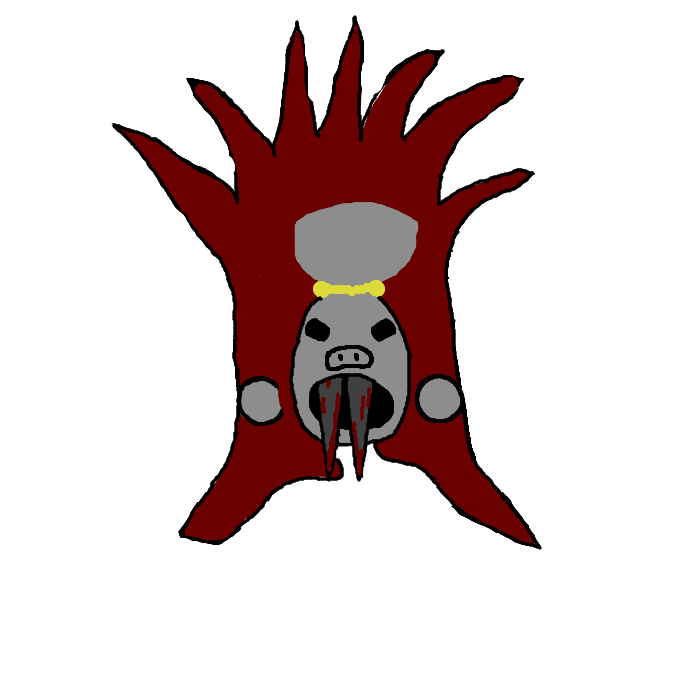
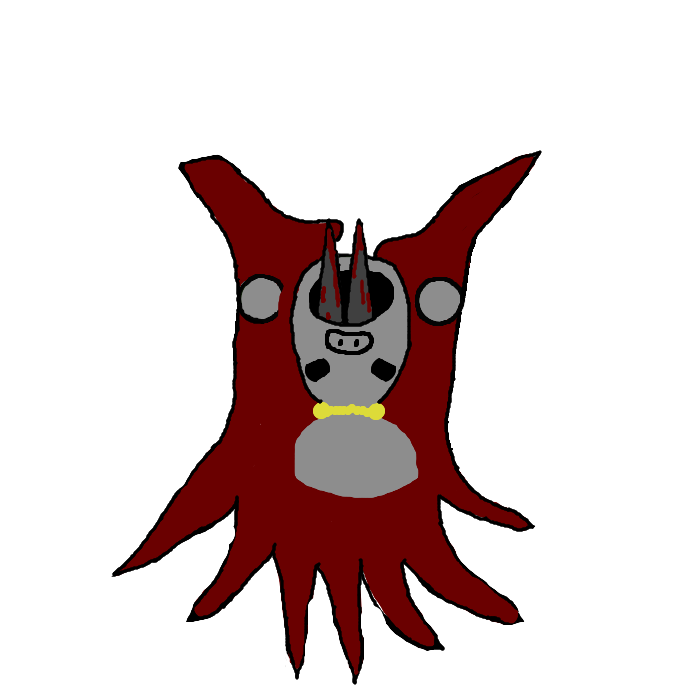
gargamel_hungry beginning

Changed region(s): [[0.15, 0.03, 0.78, 0.99]]

diff --git a/lib/monsters/gargamel_hungry.py b/lib/monsters/gargamel_hungry.py
@@ -8,23 +8,22 @@ from . import Target
 
 #2 phase, and sheep procession
 class GargamelHungry(AbstractGargamel):
-    lives = 880
+    lives = 70
 
     def __init__(self, env, x, y):
-        self.set_weapons()
+        self.set_dependencies()
         self._random_spawn()
         self.target = self.env.players[0]
 
         self.weapon_left = self.scimitar(110)
-        self.weapon_right = self.scimitar(110)
+        self.weapon_right = self.nothing(self.weapon_left)
 
-
-        self.weapons_left_list = []
-        self.weapons_right_list = []
+        self.left_weapons_types = [self.scimitar]
+        self.right_weapons_types = [self.spear]
 
         self.hitbox = set_hitbox_monster(env, self, 0.25)
 
-        procession = self.procession(self.x, self.y, self)
+        procession = self.procession(self.x, self.y, self, 405, 877)
         t = Thread(target=procession.spawn, args=())
         t.daemon = True
         self.env.bullets.append(procession)
@@ -35,20 +34,25 @@ class GargamelHungry(AbstractGargamel):
 
         self.env.background = self.env.background_butchery
 
+        self.delay = 14
+
     def display(self, env):
         fitting = 0.23 * self.dimensions if self.direction % 2 else 0
         direction = self.direction
         if not self.lives:
-            img = self.img_hungry[direction]
-        #elif self.scimitar_spelling:
-        #    img = self.img_scimitar_spelling[self.direction]
+            if self.env.walking_dead:
+                img = self.img_possessed[direction]
+            else:
+                img = self.img_dead[direction]
         elif self.injured:
-            img = self.img_injured[direction]
+            img = self.img_hungry_injured[direction]
         else:
-            img = self.img[direction]
+            img = self.img_hungry[direction]
         self.tools.display(env, img, self.x, self.y, fitting)
-        if self.lives and self.weapon.in_hand:
-            self.tools.display(self.env, self.weapon.img[direction], self.x, self.y, fitting)
+        if self.lives and self.weapon_left.in_hand:
+            self.tools.display(self.env, self.weapon_left.img[direction], self.x, self.y, fitting)
+        if self.lives and self.weapon_right.in_hand:
+            self.tools.display(self.env, self.weapon_right.img[direction], self.x, self.y, fitting)
         self._debug()
 
     def _get_direction_to_target(self):
@@ -68,18 +72,14 @@ class GargamelHungry(AbstractGargamel):
             if self._quit():
                 return
 
-        self.target = self.target_when_dead
-        self.env.titles.append(self.title)
-        while not self.affected(self.target):
-            direction = self._get_direction_to_target()
-            self.direction = direction
-            self.tools.move(self, direction, self.rapidity + self.env.furious)
-            self.hitbox.update_coords(self)
-            self._target_hitted()
+        while self.degeneration:
+            if self.env.walking_dead:
+                self._action()
             if self._quit():
                 return
 
-        self.env.titles.remove(self.title)
+        for lamb in self.env.lambs:
+            lamb.lives = 0
         self.env.background = self.env.background_basic
         self.degeneration = 0
 
@@ -97,7 +97,15 @@ class GargamelHungry(AbstractGargamel):
                 self.lives -= 1
                 self.injured += 5
         if not self.lives:
+            self.delay -= 1
+            if not self.delay:
+                if len(self.env.lambs):
+                    self.env.lambs[0].lives = 0
+                self.delay = 14
             return
-        self.weapon.update()
-        if self.weapon.free:
-            self.weapon = self.scimitar()
+        self.weapon_left.update()
+        self.weapon_right.update()
+        if self.weapon_left.free:
+            self.weapon_left = self.left_weapons_types[randint(0, len(self.left_weapons_types) - 1)]()
+        if self.weapon_right.free:
+            self.weapon_right = self.right_weapons_types[randint(0, len(self.right_weapons_types) - 1)]()

diff --git a/lib/monsters/abstract_gargamel.py b/lib/monsters/abstract_gargamel.py
@@ -50,6 +50,27 @@ class GargamelScimitar(GargamelWeapon):
     def _perform(self):
         self.env.objects.append(self.obj(self.monster.x, self.monster.y, self))
 
+class GargamelNothing(GargamelWeapon):
+    def __init__(self, other_hand):
+        self.free = False
+        self.in_hand = False
+        self.other_hand = other_hand
+
+    def update(self):
+        if self.other_hand.free:
+            self.free = True
+
+class GargamelSpear(GargamelWeapon):
+    mi = 66
+    ma = 102
+    @classmethod
+    def build_class(cls):
+        cls.img = cls.tools.set_imgs(cls.env.img_folder + 'weapons/', 'spear', cls.dimensions)
+        cls.obj = cls.env.mod.objects.Spear.build_class(cls.env, cls.dimensions)
+        return cls
+    def _perform(self):
+        self.env.objects.append(self.obj(self.monster.x, self.monster.y, self))
+
 
 #2 phase, and sheep procession
 class AbstractGargamel(DefaultMonster):
@@ -66,12 +87,14 @@ class AbstractGargamel(DefaultMonster):
         cls.img = cls.tools.set_imgs(cls.env.img_folder + 'monsters/', cls.name, cls.dimensions)
         cls.img_injured = cls.tools.set_imgs(cls.env.img_folder + 'monsters/', cls.name + '_injured', cls.dimensions)
         cls.img_dead = cls.tools.set_imgs(cls.env.img_folder + 'monsters/', cls.name + '_dead', cls.dimensions)
+        cls.img_possessed = cls.tools.set_imgs(cls.env.img_folder + 'monsters/', cls.name + '_possessed', cls.dimensions)
         cls.img_hungry = cls.tools.set_imgs(cls.env.img_folder + 'monsters/', cls.name + '_hungry', cls.dimensions)
         cls.img_hungry_injured = cls.tools.set_imgs(cls.env.img_folder + 'monsters/', cls.name + '_hungry_injured', cls.dimensions)
-        cls.img_spear = cls.tools.set_imgs(cls.env.img_folder + 'weapons/', 'spear', cls.dimensions)
+
         GargamelWeapon.build_abstract(cls.env, cls.dimensions)
+        cls.nothing = GargamelNothing
         cls.scimitar = GargamelScimitar.build_class()
-        cls.spear = cls.env.mod.objects.Spear.build_class(cls.env, cls.dimensions)
+        cls.spear = GargamelSpear.build_class()
 
         cls.void = cls.env.mod.objects.Void.build_class(cls.env, cls.dimensions)
 

diff --git a/lib/waves/configuration.py b/lib/waves/configuration.py
@@ -60,15 +60,15 @@ class   DefaultWave:
 
 class   Wave1(DefaultWave):
     def __init__(self, env):
-        self.title = env.mod.tools.load_img(env, 'waves/gargamel', env.height, env.height)
+        self.title = env.mod.tools.load_img(env, 'waves/gargamel_hungry', env.height, env.height)
         self.objective = 70
         self.times = [45, 178]
         self.nb = [3, 1]
         self.next = [0, self.random(1)]
         #self.add = AdditionalSpawn((0, 1, 799), (0, 1, 899))
-        self.add = AdditionalSpawn((0, 1, 220), (0, 1, 899), (0, 1, 99))
+        self.add = AdditionalSpawn((0, 1, 799), (0, 1, 899), (0, 1, 990))
         #gargamel test
-        env.mod.tools.spawn_boss(env, env.mod.monsters.Gargamel)
+        env.mod.tools.spawn_boss(env, env.mod.monsters.GargamelHungry)
 
     def process(self, env):
         for i, value in enumerate(self.next):

diff --git a/lib/monsters/gargamel.py b/lib/monsters/gargamel.py
@@ -8,7 +8,7 @@ from . import Target
 
 #2 phase, and sheep procession
 class Gargamel(AbstractGargamel):
-    lives = 80
+    lives = 770
 
     def __init__(self, env, x, y):
         self.set_dependencies()
@@ -19,7 +19,7 @@ class Gargamel(AbstractGargamel):
 
         self.hitbox = set_hitbox_monster(env, self, 0.25)
 
-        procession = self.procession(self.x, self.y, self)
+        procession = self.procession(self.x, self.y, self, 215, 345)
         t = Thread(target=procession.spawn, args=())
         t.daemon = True
         self.env.bullets.append(procession)

diff --git a/lib/bullets/lambs_procession.py b/lib/bullets/lambs_procession.py
@@ -15,12 +15,14 @@ class   LambsProcession(DefaultBullet):
         return cls
 
     def _next_lamb(self):
-        self.will_summon = randint(165, 305)
+        self.will_summon = randint(self.mi, self.ma)
         self.number = randint(2, 5)
 
-    def __init__(self, x, y, gargamel):
+    def __init__(self, x, y, gargamel, mi, ma):
         super().__init__(x, y, 0)
         self.gargamel = gargamel
+        self.mi = mi
+        self.ma = ma
         self._next_lamb()
 
     def display(self, env):

diff --git a/lib/monsters/__init__.py b/lib/monsters/__init__.py
@@ -39,6 +39,6 @@ from .graeae import Graeae
 from .lamb import Lamb
 from .abstract_gargamel import AbstractGargamel
 from .gargamel import Gargamel
-#from .gargamel_hungry import GargamelHungry
+from .gargamel_hungry import GargamelHungry
 
 tab = [Zombie, Cyclops, JackLantern, Necromancer, Harpy, Ent, Villager, Alchemist, Witch, Vampire]
